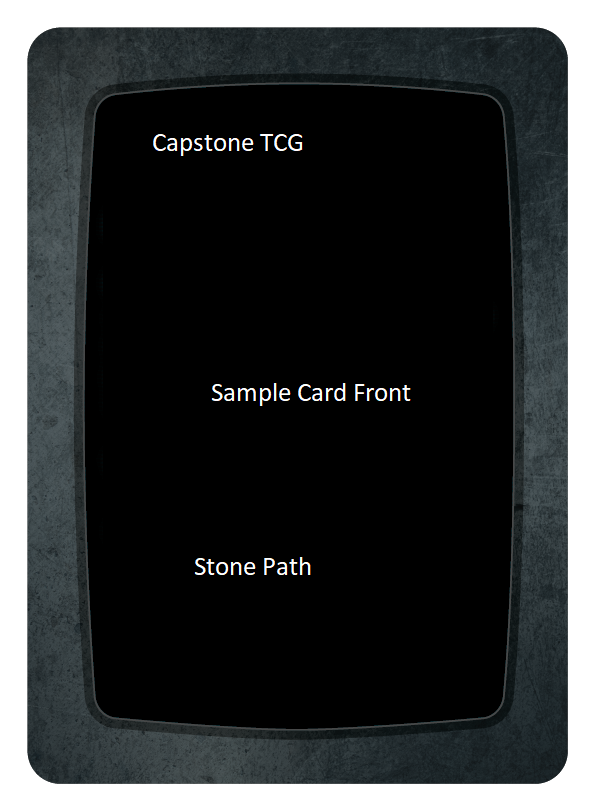
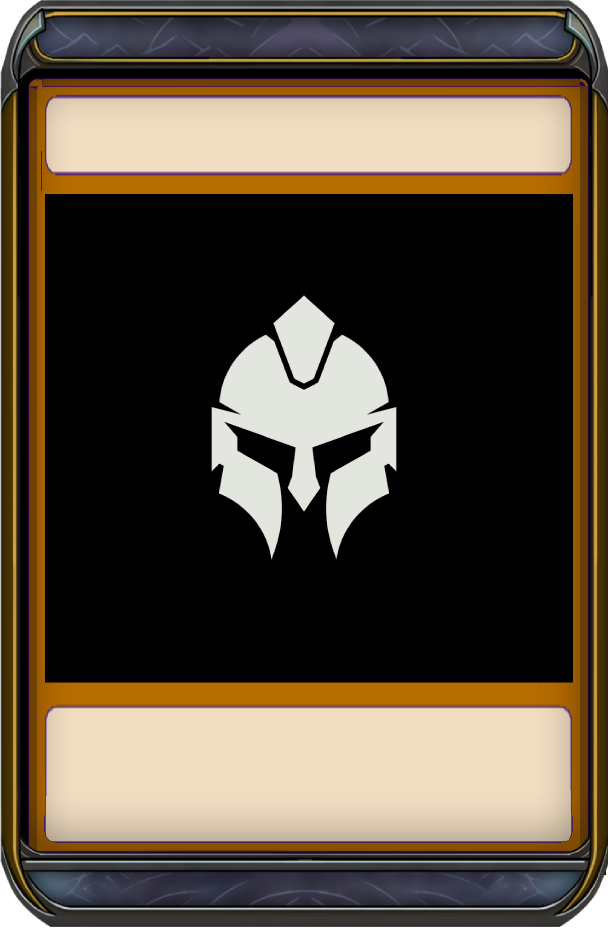
adjusted game styling

diff --git a/client/src/scenes/game.js b/client/src/scenes/game.js
@@ -159,7 +159,7 @@ export default class Game extends Phaser.Scene {
     });
     // execute all promises
     Promise.all(promises).then(() => {
-      console.log("card images preloaded");
+      this.finishedPreload = true;
     });
   }
 
@@ -205,15 +205,15 @@ export default class Game extends Phaser.Scene {
 
         // parse card objects
         this.parseCards();
-        while (!this.cardDeck) {
-          continue;
-        }
         // parse enemy objects
         this.parseEnemies();
         // preload card images
         this.preloadCards();
         // preload enemy images
         this.preloadEnemies();
+        while (!this.cardDeck && !this.gameRules && !this.finishedPreload) {
+          continue;
+        }
       })
       .catch((error) => {
         console.log("fetch error" + error);
@@ -232,9 +232,12 @@ export default class Game extends Phaser.Scene {
     // preload default card back
     this.load.image("cardBack", "src/assets/Card_Back.png");
     this.load.image("stonePath", "src/assets/Stone_Path.png");
+    this.load.image("gameBackground", "src/assets/Game_Background.png");
   }
 
   create() {
+    // add game background
+    this.add.image(600, 500, 'gameBackground');
     // Everything is going to be dealt with through various handlers.
     this.EnemyHandler = new EnemyHandler(this);
     this.PlayerHandler = new PlayerHandler(this);

diff --git a/client/src/helpers/cards/Card.js b/client/src/helpers/cards/Card.js
@@ -88,20 +88,26 @@ export default class Card {
         let attackText = "none";
         let defenseText = "none";
         let abilityText = "none";
-        sprite = scene.add.image(0, 0, this.sprite);
-        sprite.setScale(1.2);
+        sprite = scene.add.image(200, -10, this.sprite);
+        sprite.setScale(1.0);
         nameText = scene.add
-          .text(-150, -300, `${this.name}`)
-          .setFontSize(40)
-          .setFontFamily("Treubuchet MS");
+          .text(0, -375, `${this.name}`)
+          .setFontSize(55)
+          .setFontFamily("Treubuchet MS")
+          .setColor("#000")
+          .setFontStyle("bold");
         attackText = scene.add
           .text(-40, 240, `ATK/${this.attack}`)
           .setFontSize(40)
-          .setFontFamily("Treubuchet MS");
+          .setFontFamily("Treubuchet MS")
+          .setColor("#000")
+          .setFontStyle("bold");
         defenseText = scene.add
-          .text(60, 240, `DEF/${this.defense}`)
+          .text(180, 240, `DEF/${this.defense}`)
           .setFontSize(40)
-          .setFontFamily("Treubuchet MS");
+          .setFontFamily("Treubuchet MS")
+          .setColor("#000")
+          .setFontStyle("bold");
         abilityText = scene.add
           .text(0, 140, `${this.ability}`)
           .setFontSize(40)

diff --git a/client/src/helpers/handlers/UIHandler.js b/client/src/helpers/handlers/UIHandler.js
@@ -15,14 +15,11 @@ export default class UIHandler {
 
     this.buildPlayerArea = () => {
       scene.playerHandArea = scene.add.rectangle(470, 860, 850, 230);
-      scene.playerHandArea.setStrokeStyle(4, 0x0096ff);
-      scene.playerDeckArea = scene.add.rectangle(1000, 860, 155, 215);
-      scene.playerDeckArea.setStrokeStyle(3, 0x00ffff);
+      scene.playerDeckArea = scene.add.rectangle(1050, 860, 155, 215);
     };
 
     this.buildEnemyArea = () => {
       scene.enemyArea = scene.add.rectangle(570, 135, 1050, 230);
-      scene.enemyArea.setStrokeStyle(4, 0x880808);
     };
 
     //builds the Start Game and End Turn buttons

diff --git a/client/src/helpers/handlers/ZoneHandler.js b/client/src/helpers/handlers/ZoneHandler.js
@@ -10,7 +10,6 @@ export default class ZoneHandler {
         //this creates an outline for our dropzone.
         this.renderOutline = (dropZone) => {
             let dropZoneOutline = scene.add.graphics();
-            dropZoneOutline.lineStyle(4, 0x097969);
             dropZoneOutline.strokeRect(dropZone.x - dropZone.input.hitArea.width / 2, dropZone.y - dropZone.input.hitArea.height / 2, dropZone.input.hitArea.width, dropZone.input.hitArea.height)
         }
     }
